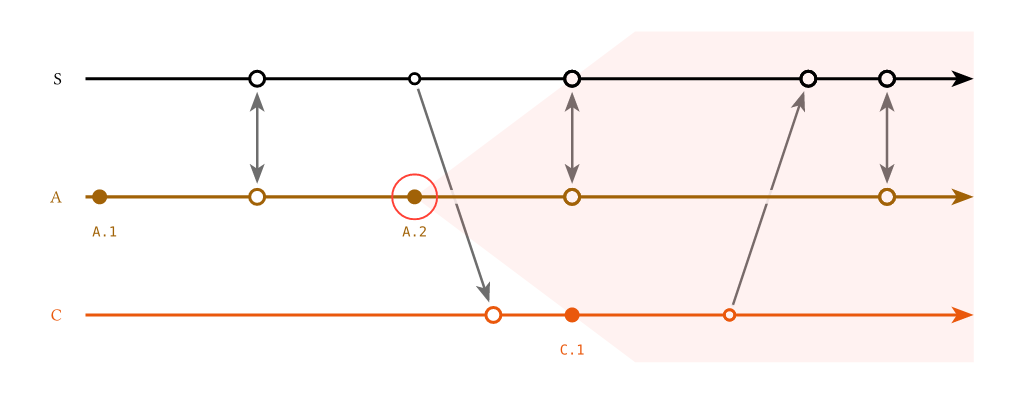
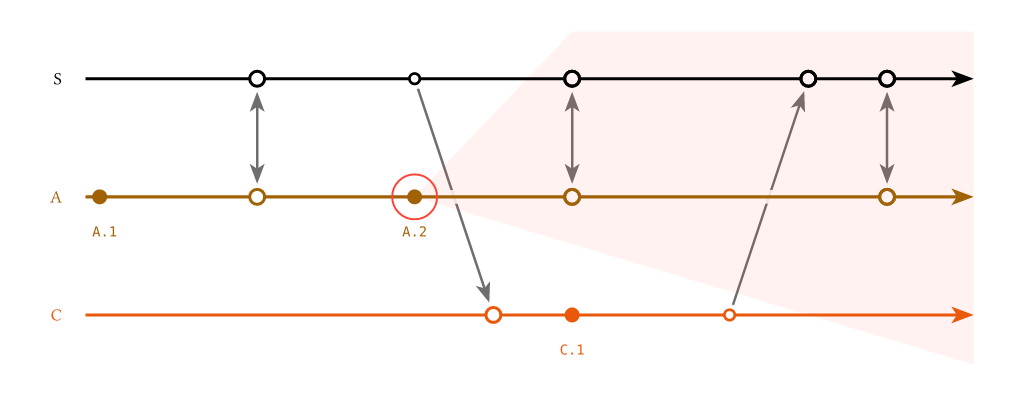
fix: stop the worked example claiming C is in the future of `A.2`
The washed region was a light cone: an apex on `A.2` and edges at a fixed angle in lanes per column.
That is the wrong physics for this drawing.  What a Lamport diagram carries forward is messages, and
lane adjacency means nothing at all, so the cone swept in every event on C purely because C's lane
happened to be next to A's.  None of them is in that future: the one message C receives was sent
before S had heard of `A.2`, and nothing leaves S for C afterwards.  They are concurrent with it.

So each edge is aimed at something the messages did.  Towards S, at the exchange that tells S about
`A.2`, taking S in exactly there and running flat after, S being the last lane that way.  Towards C,
at a point one centimetre past C's own last event: the edge may cross that lane, since a picture of a
future has to open somewhere, but only where there is nothing left to cross into.

`1 / col-gap` is that centimetre said in columns, `col-gap` being centimetres per column and the
orientation's own value.  No length on the page appears anywhere in the overlay, only the diagram's
own axes, which is what lets the horizontal and the vertical example run the very same code -- they
now differ by their import line, their replicas, and `orientation`.

Measured off both renderings, the edge crosses C's lane 1.01cm and 1.00cm after C's last event.

`mark-args("C", 3)` goes with it: tinting that mark said the same false thing a second way.

diff --git a/README.md b/README.md
@@ -23,36 +23,37 @@ That is [`gallery/overlays.typ`](gallery/overlays.typ), a complete standalone do
     "A": ([`A.1`], sync("boot"), event(id: "a2")[`A.2`], sync("a-pushes"), sync("a-catches-up")),
   ),
   overlays: (
-    // The future cone of `A.2`: the part of the diagram that event can still reach.  It opens one
-    // lane per column from where the event happened, and once it has taken in every replica there is
-    // nothing left to open into, so it runs on as a band.  Over the backdrops, so the lanes do not
-    // fade a stripe through it, and still under every timeline.
     backdrops: d => {
-      let (column, point, replicas, span, ..) = d
+      let (column, point, replicas, span, col-gap, ..) = d
       let (_, ends) = span
-      let t = column("A", "a2")
-      let lane = replicas.position(r => r == "A")
-      let edge = replicas.len() - 1 - lane + 0.4
-      let wash = red.transparentize(93%)
+      let lane-of = id => replicas.position(r => r == id)
+      let (a, s, c) = (lane-of("A"), lane-of("S"), lane-of("C"))
+      let apex = column("A", "a2")
+      let crossing = column("C", -1) + 1 / col-gap
+      let towards-c = (c - a) / (crossing - apex)
       line(
-        point(t, lane),
-        point(t + edge, lane - edge),
-        point(t + edge, lane + edge),
+        point(apex, a),
+        point(column("S", "a-pushes"), s - 0.4),
+        point(ends, s - 0.4),
+        point(ends, a + towards-c * (ends - apex)),
         close: true,
-        fill: wash,
-        stroke: none,
-      )
-      rect(
-        point(calc.min(t + edge, ends), lane - edge),
-        point(ends, lane + edge),
-        fill: wash,
+        fill: red.transparentize(93%),
         stroke: none,
       )
     },
     // Over the dot, under its label.
     marks: d => {
-      let (mark, dot, ..) = d
+      let (mark, dot, mark-args, ..) = d
+      let wash = red.transparentize(93%)
+
       circle(mark("A", "a2"), radius: dot * 3, stroke: red + 0.7pt)
+
+      // Make the inners of the events have the same `wash` color of the future cone
+      circle(..mark-args("S", 3), fill: wash)
+      circle(..mark-args("S", 4), fill: wash)
+      circle(..mark-args("S", 5), fill: wash)
+      circle(..mark-args("A", 4), fill: wash)
+      circle(..mark-args("A", 5), fill: wash)
     },
   ),
 )
